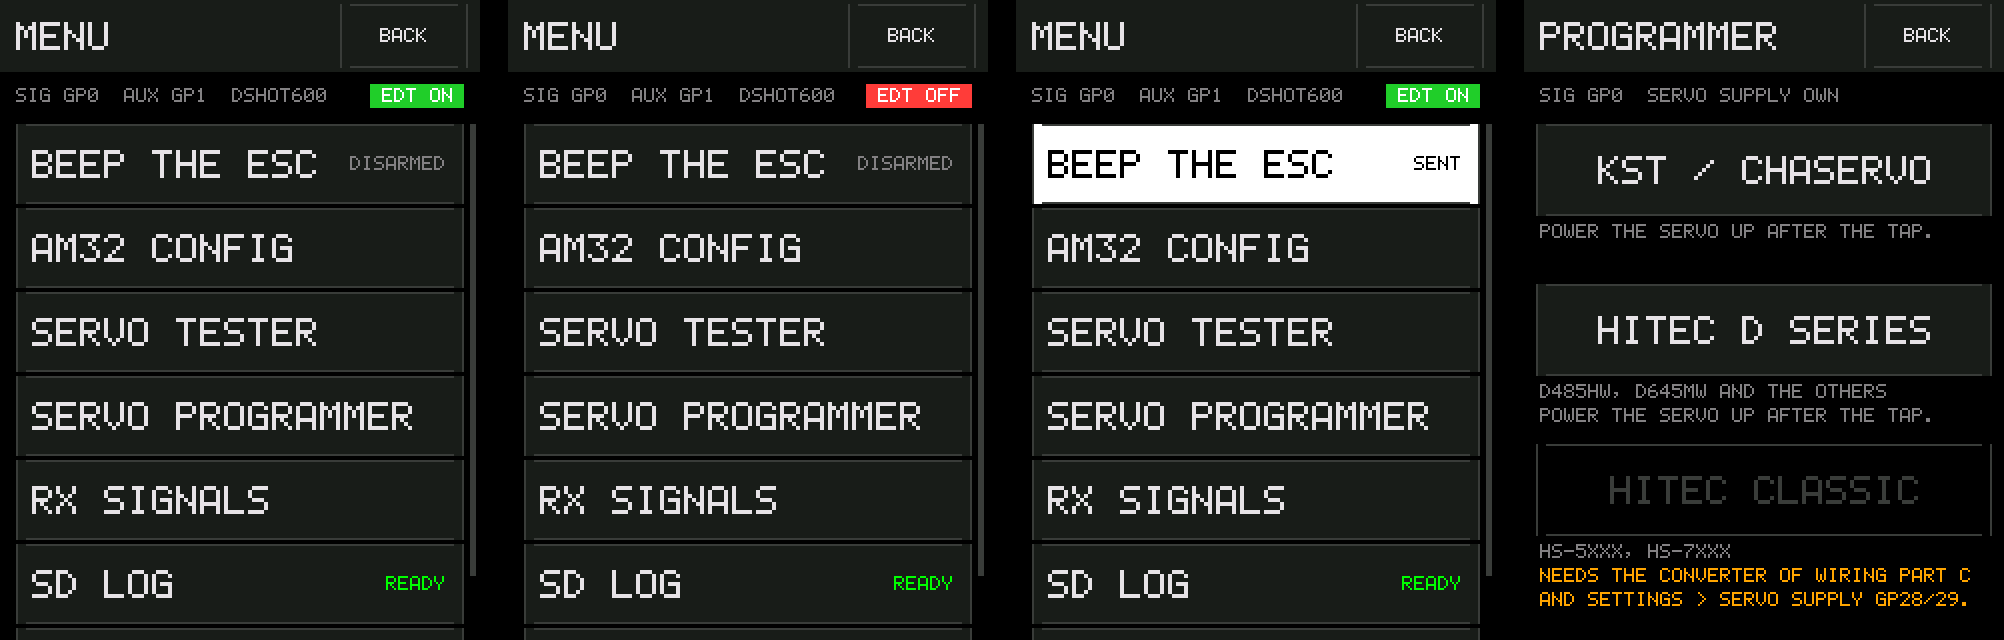
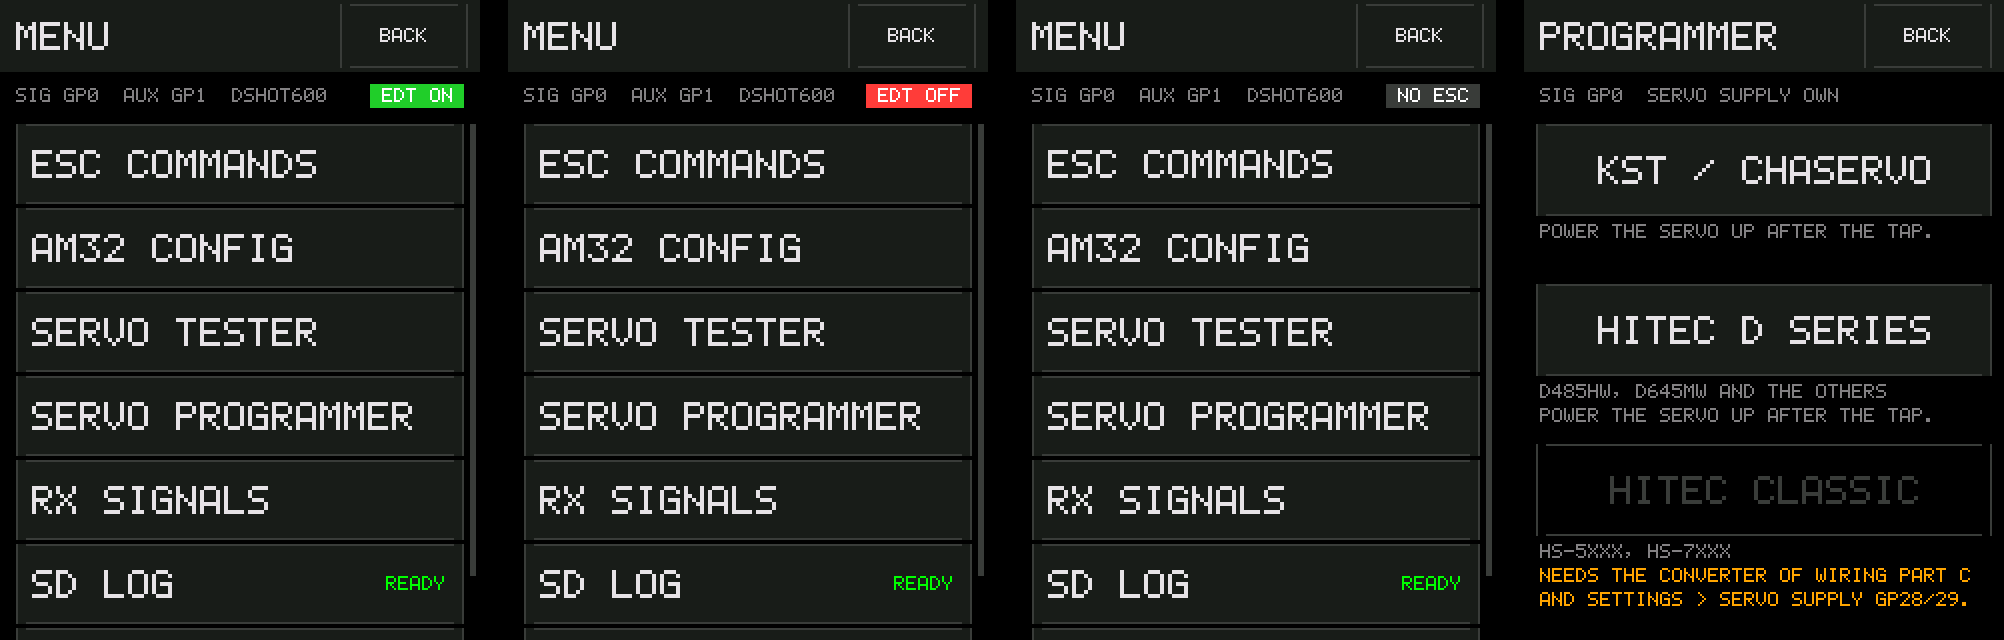
Regenerate the previews and coverage figures; test ESC COMMANDS on either SIG pin

diff --git a/test/test_esc_cmd_ui.cpp b/test/test_esc_cmd_ui.cpp
@@ -116,6 +116,13 @@ static bool allControls(bool live) {
 	return true;
 }
 
+/** @brief `NO ESC ANSWERS ON SIG GPn.` for the pin the pump drives. */
+static const char *noAnswerLine() {
+	static char b[40];
+	snprintf(b, sizeof(b), UI_ESC_CMD_NO_ANSWER_FMT, (unsigned)escTaskDshotPin());
+	return b;
+}
+
 /** @brief A pixel of the frame. */
 static uint16_t px(int x, int y) { return gfxBuffer()[y * GFX_W + x]; }
 
@@ -166,9 +173,13 @@ static void testLayout() {
 	          fakeTextIs(UI_MARGIN, (UI_HDR_H - 14) / 2, UI_ESC_CMD_TITLE, C_TEXT, C_PANEL, 2) &&
 	          gfxTextW(UI_ESC_CMD_TITLE, 2) == 142 && UI_MARGIN + 142 + 20 <= UI_BACK_X);
 	char cap[32];
-	snprintf(cap, sizeof(cap), UI_ESC_CMD_STRIP_FMT, (unsigned)settings()->dshotPin,
-	         (unsigned)settings()->dshotKbaud);
-	checkStr("the strip's caption", cap, "SIG GP0  DSHOT600");
+	snprintf(cap, sizeof(cap), UI_ESC_CMD_STRIP_FMT, (unsigned)escTaskDshotPin(),
+	         (unsigned)escTaskDshotKbaud());
+	{
+		char want[32];
+		snprintf(want, sizeof(want), "SIG GP%u  DSHOT600", (unsigned)settings()->dshotPin);
+		checkStr("the strip's caption: SIG's pin and the rate", cap, want);
+	}
 	checkTrue("dim at x 8, y 44, 101 px", fakeTextIs(UI_MARGIN, 44, cap, C_DIM, C_BG, 1) &&
 	          gfxTextW(cap, 1) == 101);
 	checkTrue("its widest, SIG GP1  DSHOT1200, 107 px, ends 64 px before EDT OFF at x 179",
@@ -253,7 +264,7 @@ static void testReadiness() {
 	          drawnLive(EscCmdCtl::Beep1, true) && drawnLive(EscCmdCtl::On3d, true));
 	struct R { EscCmdReady r; const char *line; const char *what; };
 	const R refused[] = {
-		{ EscCmdReady::NoAnswer, "NO ESC ANSWERS ON SIG GP0.", "no ESC answering" },
+		{ EscCmdReady::NoAnswer, noAnswerLine(), "no ESC answering" },
 		{ EscCmdReady::Turning, UI_ESC_CMD_TURNING, "the motor turning" },
 		{ EscCmdReady::Settling, UI_ESC_CMD_SETTLING, "the ESC settling" },
 	};
@@ -282,14 +293,19 @@ static void testReadiness() {
 			fakeDumpFrame("shot_esccmd_no_esc.ppm");
 		}
 	}
-	// The pin in the line is SIG's.
+	// The pin in the line is SIG's: swap SIG and AUX.
 	const FakeWiring w = fakeWiring();
-	escTaskConfigure(1, w.dshotKbaud, w.kissEnable, 0);
+	const uint8_t other = w.dshotPin == 1 ? 0 : 1;
+	escTaskConfigure(other, w.dshotKbaud, w.kissEnable, w.dshotPin);
 	fakeSetCmdReady(EscCmdReady::NoAnswer);
 	ecFrames(1);
-	checkTrue("SIG on GP1: NO ESC ANSWERS ON SIG GP1., and the strip SIG GP1",
-	          lineIs(0, "NO ESC ANSWERS ON SIG GP1.", C_AMBER) &&
-	          fakeTextIs(UI_MARGIN, 44, "SIG GP1  DSHOT600", C_DIM, C_BG, 1));
+	{
+		char line[40], strip[32];
+		snprintf(line, sizeof(line), "NO ESC ANSWERS ON SIG GP%u.", (unsigned)other);
+		snprintf(strip, sizeof(strip), "SIG GP%u  DSHOT600", (unsigned)other);
+		checkTrue("SIG swapped: the line and the strip name the other pin",
+		          lineIs(0, line, C_AMBER) && fakeTextIs(UI_MARGIN, 44, strip, C_DIM, C_BG, 1));
+	}
 	escTaskConfigure(w.dshotPin, w.dshotKbaud, w.kissEnable, w.kissPin);
 	ecFrames(2);
 	fakeSetCmdReady(EscCmdReady::Busy);
@@ -489,7 +505,7 @@ static void testOutcomes() {
 	checkTrue("the ESC gone after it: the outcome stays, the reason on the sixth line",
 	          lineIs(0, "SENT 10 (3D ON), THEN 12 (SAVE).", C_TEXT) &&
 	          lineIs(4, UI_ESC_CMD_3D_RESTART, C_AMBER) &&
-	          lineIs(5, "NO ESC ANSWERS ON SIG GP0.", C_AMBER) && allControls(false));
+	          lineIs(5, noAnswerLine(), C_AMBER) && allControls(false));
 	fakeSetCmdReady(EscCmdReady::Ready);
 	ecFrames(1);
 	sequence(EscCmdCtl::Off3d, EscCmdState::Sent, DSHOT_CMD_3D_MODE_OFF);

diff --git a/STATUS.md b/STATUS.md
@@ -1150,8 +1150,9 @@ model.
 | `src/dshot/dshot_edt.c` | 33 | 33 | 100.0% |
 | `src/dshot/dshot_frame.c` | 25 | 25 | 100.0% |
 | `src/dshot/dshot_telem.c` | 143 | 143 | 100.0% |
+| `src/esc_3d.cpp` | 2 | 2 | 100.0% |
 | `src/esc_merge.cpp` | 44 | 44 | 100.0% |
-| `src/esc_task.h` | 258 | 258 | 100.0% |
+| `src/esc_task.h` | 261 | 261 | 100.0% |
 | `src/gfx.cpp` | 213 | 211 | 99.1% |
 | `src/hitec_files.cpp` | 248 | 237 | 95.6% |
 | `src/hitec_job.cpp` | 382 | 372 | 97.4% |
@@ -1186,14 +1187,15 @@ model.
 | `src/touch.h` | 4 | 4 | 100.0% |
 | `src/ui.cpp` | 512 | 511 | 99.8% |
 | `src/ui.h` | 1 | 1 | 100.0% |
-| `src/ui_am32.cpp` | 537 | 532 | 99.1% |
+| `src/ui_am32.cpp` | 536 | 531 | 99.1% |
+| `src/ui_esc_cmd.cpp` | 177 | 173 | 97.7% |
 | `src/ui_hitec.cpp` | 1129 | 1071 | 94.9% |
 | `src/ui_hold.cpp` | 36 | 36 | 100.0% |
 | `src/ui_input.cpp` | 27 | 27 | 100.0% |
 | `src/ui_kst.cpp` | 1154 | 1119 | 97.0% |
 | `src/ui_leave.cpp` | 78 | 78 | 100.0% |
 | `src/ui_list.cpp` | 141 | 141 | 100.0% |
-| `src/ui_menu.cpp` | 134 | 134 | 100.0% |
+| `src/ui_menu.cpp` | 117 | 116 | 99.1% |
 | `src/ui_rx_signals.cpp` | 49 | 49 | 100.0% |
 | `src/ui_sbus.cpp` | 235 | 234 | 99.6% |
 | `src/ui_screen.h` | 8 | 8 | 100.0% |
@@ -1204,7 +1206,7 @@ model.
 | `src/ui_slider.cpp` | 109 | 109 | 100.0% |
 | `src/ui_widgets.cpp` | 76 | 76 | 100.0% |
 | `src/usb_msc.h` | 37 | 35 | 94.6% |
-| **Total** | **10964** | **10781** | **98.3%** |
+| **Total** | **11128** | **10940** | **98.3%** |
 
 Generated by `tools/coverage.py`. CI runs it with `--check` and fails on drift.
 <!-- coverage-table:end -->

diff --git a/README.md b/README.md
@@ -2587,7 +2587,7 @@ counted in microseconds — `millis()` advances only when a test says so — whi
 makes hold-to-arm, hold-to-write and gesture repeat deterministic rather than
 dependent on machine speed. The fake ESC serves a real settings blob recovered
 from the reference configurator, so the UI tests operate on values a real ESC
-would report. The suite renders 120 screens to PPM (portable pixmap) images as
+would report. The suite renders 122 screens to PPM (portable pixmap) images as
 it runs, one file per `fakeDumpFrame()` name, so a layout change is visible in
 the frames:
 
@@ -2645,7 +2645,7 @@ figure counts `src/` only: the copied rcbench files in `lib/rcbench/` are
 compiled into the instrumented suite but are not in it.
 
 <!-- coverage:start -->
-Host-suite line coverage of `src/` is **98.3%**: 10,781 of 10,964 lines in 67 files. CI fails below 93% in total or below 85% in any file.
+Host-suite line coverage of `src/` is **98.3%**: 10,940 of 11,128 lines in 69 files. CI fails below 93% in total or below 85% in any file.
 <!-- coverage:end -->
 
 `sd_log.cpp` cannot be linked on the host (FatFs and the SPI driver come with it), so the
